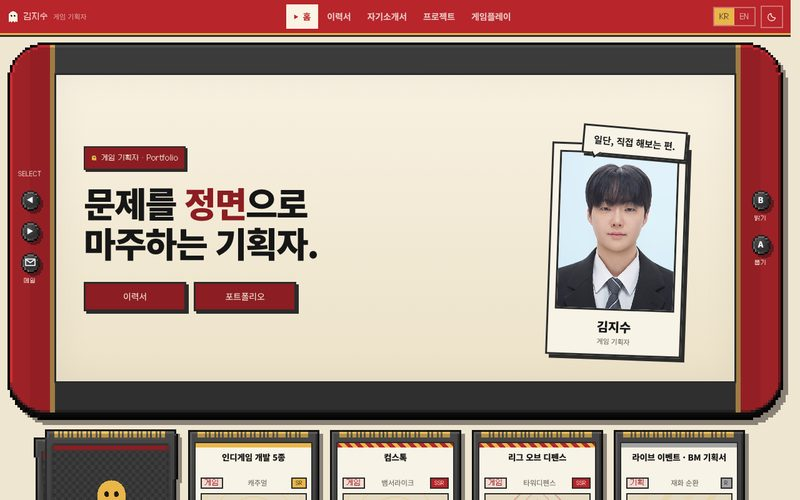
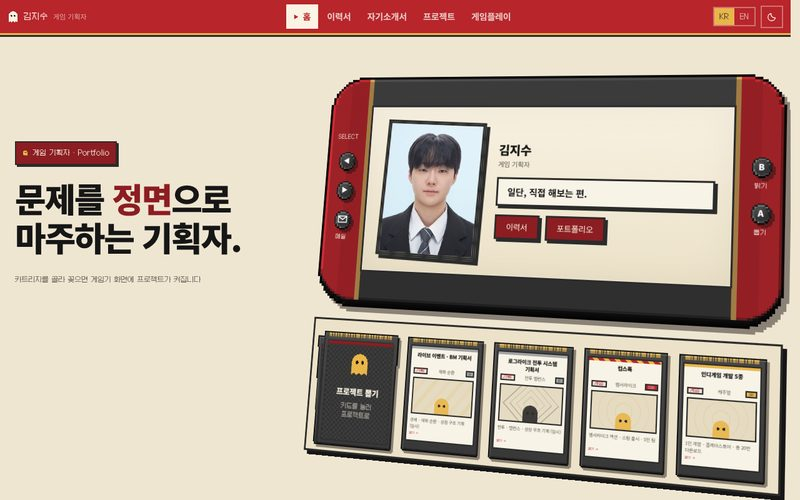
3D 픽셀 · 복셀 안을 '기울인 구도'로 — 왼쪽 제목 · 기울어진 게임기 · 그 밑 카트리지
평면 배치 대신, 제품 사진 안에서 고른 구도(왼쪽 큰 제목 + 오른쪽 살짝 기울어진 게임기 + 바로 밑 같은
기울기의 카트리지 진열판)를 원본 패미컴 디자인에 입힘. 자리 옮기기는 공용 assets/js/themes/fc-stage.js
(정돈·3D 픽셀·복셀 안이 함께 씀), 판은 transform-style: flat 이라 기울인 카드도 그대로 눌림.
카트리지 꽂기 → 기울어진 화면에 개요가 켜지는 원본 흐름 유지. 900px 미만은 평평하게 쌓음.
6개 페이지 × 라이트/다크 × 1440/390/320px 오류·넘침 없음.

Claude-Session: https://claude.ai/code/session_01FvKYnfXZMVorzgeM1iQfv5

diff --git a/assets/css/themes/pixel-fc-voxel.css b/assets/css/themes/pixel-fc-voxel.css
@@ -482,3 +482,50 @@
 @media (max-width: 700px) {
   :root[data-skin="pixel-fc-voxel"] .hero, :root[data-skin="pixel-fc-voxel"] .home-screen .hero { width: calc(100% - 60px); }
 }
+
+
+/* ==========================================================================
+   구도 — 왼쪽 큰 제목 · 오른쪽 살짝 기울어진 게임기 · 그 바로 밑 같은 기울기의 카트리지 진열판
+   (자리 옮기기는 assets/js/themes/fc-stage.js). 판(.fcs-rig)은 transform-style: flat 이어야
+   기울인 카드가 클릭·호버에 제대로 반응합니다. 좁은 화면(<900px)은 평평하게 쌓습니다.
+   ========================================================================== */
+:root[data-skin="pixel-fc-voxel"] .fcs-stage { position: relative; width: min(100% - 48px, 1240px); margin: 0 auto; padding: 48px 0 56px; }
+:root[data-skin="pixel-fc-voxel"] .fcs-intro { position: relative; z-index: 2; min-width: 0; margin-bottom: 36px; }
+:root[data-skin="pixel-fc-voxel"] .fcs-intro .hero__eyebrow { margin-bottom: 22px; }
+:root[data-skin="pixel-fc-voxel"] .fcs-intro .hero__title { font-size: clamp(34px, 3.9vw + 4px, 60px); line-height: 1.14; letter-spacing: -.04em; word-break: keep-all; }
+:root[data-skin="pixel-fc-voxel"] .fcs-intro .hero__sub { margin-top: 20px; }
+:root[data-skin="pixel-fc-voxel"] .fcs-caption { margin: 30px 0 0; font: 400 11px/1.6 'Galmuri11', monospace; color: var(--text-muted); }
+:root[data-skin="pixel-fc-voxel"] .fcs-rig { position: relative; min-width: 0; transform-style: flat; }
+/* 게임기: 오른쪽 칸 폭에 맞춘 한 대 (원본은 화면 높이로 크기를 정하지만 여기선 고정) */
+:root[data-skin="pixel-fc-voxel"] .fcs-rig > .hero { width: 100%; margin: 0; --fc-h: 380px; min-height: 380px; }
+:root[data-skin="pixel-fc-voxel"] .fcs-rig .hero__grid { display: grid; grid-template-columns: auto minmax(0, 1fr); gap: 26px; align-items: center; height: 100%; }
+:root[data-skin="pixel-fc-voxel"] .fcs-rig .hero__media { order: -1; width: auto; padding: 0 !important; }
+:root[data-skin="pixel-fc-voxel"] .fcs-rig .hero .portrait { width: clamp(130px, 13vw, 190px); }
+:root[data-skin="pixel-fc-voxel"] .fcs-rig .hero__portrait { padding: 0; }
+:root[data-skin="pixel-fc-voxel"] .fcs-info { min-width: 0; }
+:root[data-skin="pixel-fc-voxel"] .fcs-info .portrait__cap { align-items: flex-start; text-align: left; margin: 0 0 12px; }
+:root[data-skin="pixel-fc-voxel"] .fcs-info .quip { position: static; inset: auto; transform: none; max-width: none; width: auto; margin: 0 0 8px; }
+:root[data-skin="pixel-fc-voxel"] .fcs-info .quip::after, :root[data-skin="pixel-fc-voxel"] .fcs-info .quip::before { display: none; }
+:root[data-skin="pixel-fc-voxel"] .fcs-info .quip__more { position: static; transform: none; }
+:root[data-skin="pixel-fc-voxel"] .fcs-info .btn-row { display: flex; flex-wrap: wrap; gap: 10px; margin-top: 14px; max-width: none; }
+:root[data-skin="pixel-fc-voxel"] .fcs-info .btn { min-height: 40px; padding: 9px 16px; font-size: 13px; }
+:root[data-skin="pixel-fc-voxel"] .fcs-rig > .hero > .wrap { padding: 22px 26px; }
+/* 진열판: 게임기 바로 밑 */
+:root[data-skin="pixel-fc-voxel"] .fcs-rig > .draw { padding: 0; margin-top: 30px; }
+:root[data-skin="pixel-fc-voxel"] .fcs-rig > .draw > .wrap { width: 100%; max-width: none; padding: 0; }
+:root[data-skin="pixel-fc-voxel"] .fcs-rig .draw__stage { gap: 14px; padding: 18px; background: var(--fc-screen-b, #ece2c9); border: 3px solid var(--fc-line); box-shadow: 6px 6px 0 var(--fc-line-2); }
+@media (min-width: 900px) {
+  :root[data-skin="pixel-fc-voxel"] .fcs-stage { display: grid; grid-template-columns: minmax(0, .78fr) minmax(0, 1.4fr); column-gap: 44px; align-items: start; }
+  :root[data-skin="pixel-fc-voxel"] .fcs-intro { margin: 0; padding-top: 110px; }
+  :root[data-skin="pixel-fc-voxel"] .fcs-rig { transform: perspective(1300px) rotateX(7deg) rotateY(-12deg) rotateZ(3deg); transform-origin: 50% 35%; }
+}
+@media (max-width: 899px) {
+  :root[data-skin="pixel-fc-voxel"] .fcs-rig > .hero { min-height: 0; }
+}
+@media (max-width: 700px) {
+  :root[data-skin="pixel-fc-voxel"] .fcs-stage { width: 100%; padding-top: 28px; }
+  :root[data-skin="pixel-fc-voxel"] .fcs-intro { padding: 0 22px; }
+  :root[data-skin="pixel-fc-voxel"] .fcs-rig .hero__grid { grid-template-columns: auto minmax(0, 1fr); gap: 14px; }
+  :root[data-skin="pixel-fc-voxel"] .fcs-rig .hero .portrait { width: 104px; }
+  :root[data-skin="pixel-fc-voxel"] .fcs-rig > .draw { margin: 22px 12px 0; }
+}

diff --git a/assets/css/themes/pixel-fc-px3d.css b/assets/css/themes/pixel-fc-px3d.css
@@ -482,3 +482,50 @@
 @media (max-width: 700px) {
   :root[data-skin="pixel-fc-px3d"] .hero, :root[data-skin="pixel-fc-px3d"] .home-screen .hero { width: calc(100% - 44px); }
 }
+
+
+/* ==========================================================================
+   구도 — 왼쪽 큰 제목 · 오른쪽 살짝 기울어진 게임기 · 그 바로 밑 같은 기울기의 카트리지 진열판
+   (자리 옮기기는 assets/js/themes/fc-stage.js). 판(.fcs-rig)은 transform-style: flat 이어야
+   기울인 카드가 클릭·호버에 제대로 반응합니다. 좁은 화면(<900px)은 평평하게 쌓습니다.
+   ========================================================================== */
+:root[data-skin="pixel-fc-px3d"] .fcs-stage { position: relative; width: min(100% - 48px, 1240px); margin: 0 auto; padding: 48px 0 56px; }
+:root[data-skin="pixel-fc-px3d"] .fcs-intro { position: relative; z-index: 2; min-width: 0; margin-bottom: 36px; }
+:root[data-skin="pixel-fc-px3d"] .fcs-intro .hero__eyebrow { margin-bottom: 22px; }
+:root[data-skin="pixel-fc-px3d"] .fcs-intro .hero__title { font-size: clamp(34px, 3.9vw + 4px, 60px); line-height: 1.14; letter-spacing: -.04em; word-break: keep-all; }
+:root[data-skin="pixel-fc-px3d"] .fcs-intro .hero__sub { margin-top: 20px; }
+:root[data-skin="pixel-fc-px3d"] .fcs-caption { margin: 30px 0 0; font: 400 11px/1.6 'Galmuri11', monospace; color: var(--text-muted); }
+:root[data-skin="pixel-fc-px3d"] .fcs-rig { position: relative; min-width: 0; transform-style: flat; }
+/* 게임기: 오른쪽 칸 폭에 맞춘 한 대 (원본은 화면 높이로 크기를 정하지만 여기선 고정) */
+:root[data-skin="pixel-fc-px3d"] .fcs-rig > .hero { width: 100%; margin: 0; --fc-h: 380px; min-height: 380px; }
+:root[data-skin="pixel-fc-px3d"] .fcs-rig .hero__grid { display: grid; grid-template-columns: auto minmax(0, 1fr); gap: 26px; align-items: center; height: 100%; }
+:root[data-skin="pixel-fc-px3d"] .fcs-rig .hero__media { order: -1; width: auto; padding: 0 !important; }
+:root[data-skin="pixel-fc-px3d"] .fcs-rig .hero .portrait { width: clamp(130px, 13vw, 190px); }
+:root[data-skin="pixel-fc-px3d"] .fcs-rig .hero__portrait { padding: 0; }
+:root[data-skin="pixel-fc-px3d"] .fcs-info { min-width: 0; }
+:root[data-skin="pixel-fc-px3d"] .fcs-info .portrait__cap { align-items: flex-start; text-align: left; margin: 0 0 12px; }
+:root[data-skin="pixel-fc-px3d"] .fcs-info .quip { position: static; inset: auto; transform: none; max-width: none; width: auto; margin: 0 0 8px; }
+:root[data-skin="pixel-fc-px3d"] .fcs-info .quip::after, :root[data-skin="pixel-fc-px3d"] .fcs-info .quip::before { display: none; }
+:root[data-skin="pixel-fc-px3d"] .fcs-info .quip__more { position: static; transform: none; }
+:root[data-skin="pixel-fc-px3d"] .fcs-info .btn-row { display: flex; flex-wrap: wrap; gap: 10px; margin-top: 14px; max-width: none; }
+:root[data-skin="pixel-fc-px3d"] .fcs-info .btn { min-height: 40px; padding: 9px 16px; font-size: 13px; }
+:root[data-skin="pixel-fc-px3d"] .fcs-rig > .hero > .wrap { padding: 22px 26px; }
+/* 진열판: 게임기 바로 밑 */
+:root[data-skin="pixel-fc-px3d"] .fcs-rig > .draw { padding: 0; margin-top: 30px; }
+:root[data-skin="pixel-fc-px3d"] .fcs-rig > .draw > .wrap { width: 100%; max-width: none; padding: 0; }
+:root[data-skin="pixel-fc-px3d"] .fcs-rig .draw__stage { gap: 14px; padding: 18px; background: var(--fc-screen-b, #ece2c9); border: 3px solid var(--fc-line); box-shadow: 6px 6px 0 var(--fc-line-2); }
+@media (min-width: 900px) {
+  :root[data-skin="pixel-fc-px3d"] .fcs-stage { display: grid; grid-template-columns: minmax(0, .78fr) minmax(0, 1.4fr); column-gap: 44px; align-items: start; }
+  :root[data-skin="pixel-fc-px3d"] .fcs-intro { margin: 0; padding-top: 110px; }
+  :root[data-skin="pixel-fc-px3d"] .fcs-rig { transform: perspective(1300px) rotateX(7deg) rotateY(-12deg) rotateZ(3deg); transform-origin: 50% 35%; }
+}
+@media (max-width: 899px) {
+  :root[data-skin="pixel-fc-px3d"] .fcs-rig > .hero { min-height: 0; }
+}
+@media (max-width: 700px) {
+  :root[data-skin="pixel-fc-px3d"] .fcs-stage { width: 100%; padding-top: 28px; }
+  :root[data-skin="pixel-fc-px3d"] .fcs-intro { padding: 0 22px; }
+  :root[data-skin="pixel-fc-px3d"] .fcs-rig .hero__grid { grid-template-columns: auto minmax(0, 1fr); gap: 14px; }
+  :root[data-skin="pixel-fc-px3d"] .fcs-rig .hero .portrait { width: 104px; }
+  :root[data-skin="pixel-fc-px3d"] .fcs-rig > .draw { margin: 22px 12px 0; }
+}

diff --git a/assets/js/themes/fc-stage.js b/assets/js/themes/fc-stage.js
@@ -1,0 +1,62 @@
+/* ============================================================================
+   fc-stage.js — 패미컴 '기울인 구도' (정돈 · 3D 픽셀 · 복셀 안이 함께 씀)
+   ----------------------------------------------------------------------------
+   첫 화면을 [왼쪽 큰 제목] + [오른쪽에 살짝 기울어진 게임기 + 그 바로 밑, 같은 기울기의 카트리지 진열판]
+   으로 다시 놓습니다. 게임기 자체(손잡이·버튼·꽂기 연출)는 famicom.js 를 복제한 각 안의 스크립트가 그대로 맡고,
+   이 파일은 자리만 옮깁니다:
+     · .fcs-stage  = .fcs-intro(눈썹 글자·큰 제목·한 줄) + .fcs-rig(기울이는 판)
+     · .fcs-rig    = .hero(게임기) + 홈이면 .draw(카트리지 진열판)   ← CSS 가 판 전체를 한 번에 기울임
+     · 게임기 화면 안 = 사진 + .fcs-info(이름 · 한마디 · 버튼)
+   SKINS 에 든 시안일 때만 동작하고, [data-slot="main"] 이 다시 그려지면(언어 전환 등) 다시 붙습니다.
+   문구는 { ko, en } 쌍입니다.
+   ========================================================================== */
+(function () {
+  'use strict';
+  if (window.__portfolioFcStage) return;
+  window.__portfolioFcStage = true;
+  var SKINS = { 'pixel-fc-classic': 1, 'pixel-fc-px3d': 1, 'pixel-fc-voxel': 1 };
+  var CAPTION = { ko: '카트리지를 골라 꽂으면 게임기 화면에 프로젝트가 켜집니다', en: 'Pick a cartridge and slot it in to boot the project on screen' };
+
+  function active() { return !!SKINS[document.documentElement.getAttribute('data-skin')]; }
+  function lang() {
+    var v = window.PortfolioApp && window.PortfolioApp.getLang ? window.PortfolioApp.getLang() : document.documentElement.getAttribute('lang');
+    return v === 'en' ? 'en' : 'ko';
+  }
+  function node(tag, cls, text) { var el = document.createElement(tag); el.className = cls; if (text) el.textContent = text; return el; }
+
+  function stage() {
+    if (!active()) return;
+    var hero = document.querySelector('.hero');
+    if (!hero || hero.closest('.fcs-stage')) return;
+    var grid = hero.querySelector('.hero__grid'), lead = grid && grid.firstElementChild;
+    if (!lead || lead.classList.contains('hero__media')) return;
+    var box = node('div', 'fcs-stage'), intro = node('div', 'fcs-intro'), rig = node('div', 'fcs-rig');
+    hero.parentNode.insertBefore(box, hero);
+    box.appendChild(intro); box.appendChild(rig); rig.appendChild(hero);
+    var tray = box.parentNode.querySelector(':scope > .draw');
+    if (tray) { rig.appendChild(tray); box.classList.add('fcs-stage--home'); }
+
+    /* 제목 쪽은 왼쪽으로, 버튼은 화면 안에 남김 */
+    var actions = lead.querySelector('.btn-row');
+    while (lead.firstChild) intro.appendChild(lead.firstChild);
+    lead.className = 'fcs-info';
+    var portrait = hero.querySelector('.hero__portrait');
+    if (portrait) {
+      ['.portrait__cap', '.quip', '.quip__more'].forEach(function (sel) {
+        var el = portrait.querySelector(sel); if (el) lead.appendChild(el);
+      });
+    }
+    var note = intro.querySelector('.hero__note'); if (note) lead.appendChild(note);
+    if (actions) lead.appendChild(actions);
+    if (tray) intro.appendChild(node('p', 'fcs-caption', CAPTION[lang()]));
+  }
+
+  function scan() { if (active()) stage(); }
+  function start() {
+    scan();
+    var main = document.querySelector('[data-slot="main"]');
+    if (main && window.MutationObserver) new MutationObserver(scan).observe(main, { childList: true });
+    if (window.MutationObserver) new MutationObserver(scan).observe(document.documentElement, { attributes: true, attributeFilter: ['data-skin'] });
+  }
+  if (document.readyState === 'loading') document.addEventListener('DOMContentLoaded', start); else start();
+})();

diff --git a/assets/js/themes.js b/assets/js/themes.js
@@ -59,17 +59,17 @@
         { id: 'fc-classic', name: { ko: '패미컴 · 정돈', en: 'Famicom · Classic' },
           desc: { ko: '원래 패미컴 디자인을 그대로 두고 완성도만 올린 안. 도트 테두리와 그림자를 한 칸 단위로 맞추고, 덱 아래도 게임 화면처럼 정돈했습니다.',
                   en: 'The original Famicom design kept as it is, with the finish raised: pixel borders and shadows snapped to one grid, and the sections below the deck tidied like a game screen.' },
-          scripts: ['js/themes/pixel-fc-classic.js'],
+          scripts: ['js/themes/pixel-fc-classic.js', 'js/themes/fc-stage.js'],
           swatch: ['#efe6d2', '#b8252b', '#2b2b2b', '#e9b64a'] },
         { id: 'fc-px3d', name: { ko: '패미컴 · 3D 픽셀', en: 'Famicom · 3D Pixel' },
           desc: { ko: '원래 패미컴 게임기와 카트리지를 렌더해 픽셀 아트로 바꾸고, 도트 명암(밝은 윗면·어두운 아랫면)과 딱딱한 그림자로 입체감을 냈습니다.',
                   en: 'The original Famicom console and cartridges rendered into pixel art, given depth with pixel bevels (light top, dark bottom) and hard drop shadows.' },
-          scripts: ['js/themes/pixel-fc-px3d.js'],
+          scripts: ['js/themes/pixel-fc-px3d.js', 'js/themes/fc-stage.js'],
           swatch: ['#efe6d2', '#b8252b', '#2b2b2b', '#e9b64a'] },
         { id: 'fc-voxel', name: { ko: '패미컴 · 복셀', en: 'Famicom · Voxel' },
           desc: { ko: '원래 패미컴 게임기와 카트리지를 작은 블록(복셀)으로 쌓아 올린 입체. 밝은 윗면·어두운 옆면이 보이는 블록 장난감 같은 게임 그래픽.',
                   en: 'The original Famicom console and cartridges stacked out of little blocks (voxels), showing light tops and dark sides like a block-built game.' },
-          scripts: ['js/themes/pixel-fc-voxel.js'],
+          scripts: ['js/themes/pixel-fc-voxel.js', 'js/themes/fc-stage.js'],
           swatch: ['#efe6d2', '#b8252b', '#2b2b2b', '#e9b64a'] },
         { id: 'fc-8bit', name: { ko: '패미컴 · 도트 아트', en: 'Famicom · Pixel Art' },
           desc: { ko: '디자인 안 ②. 게임기부터 창 테두리·제목까지 전부 도트로 그린 8비트 화면. 계단식 모서리, 도트 그림자, 옛 게임 대화 상자.',
